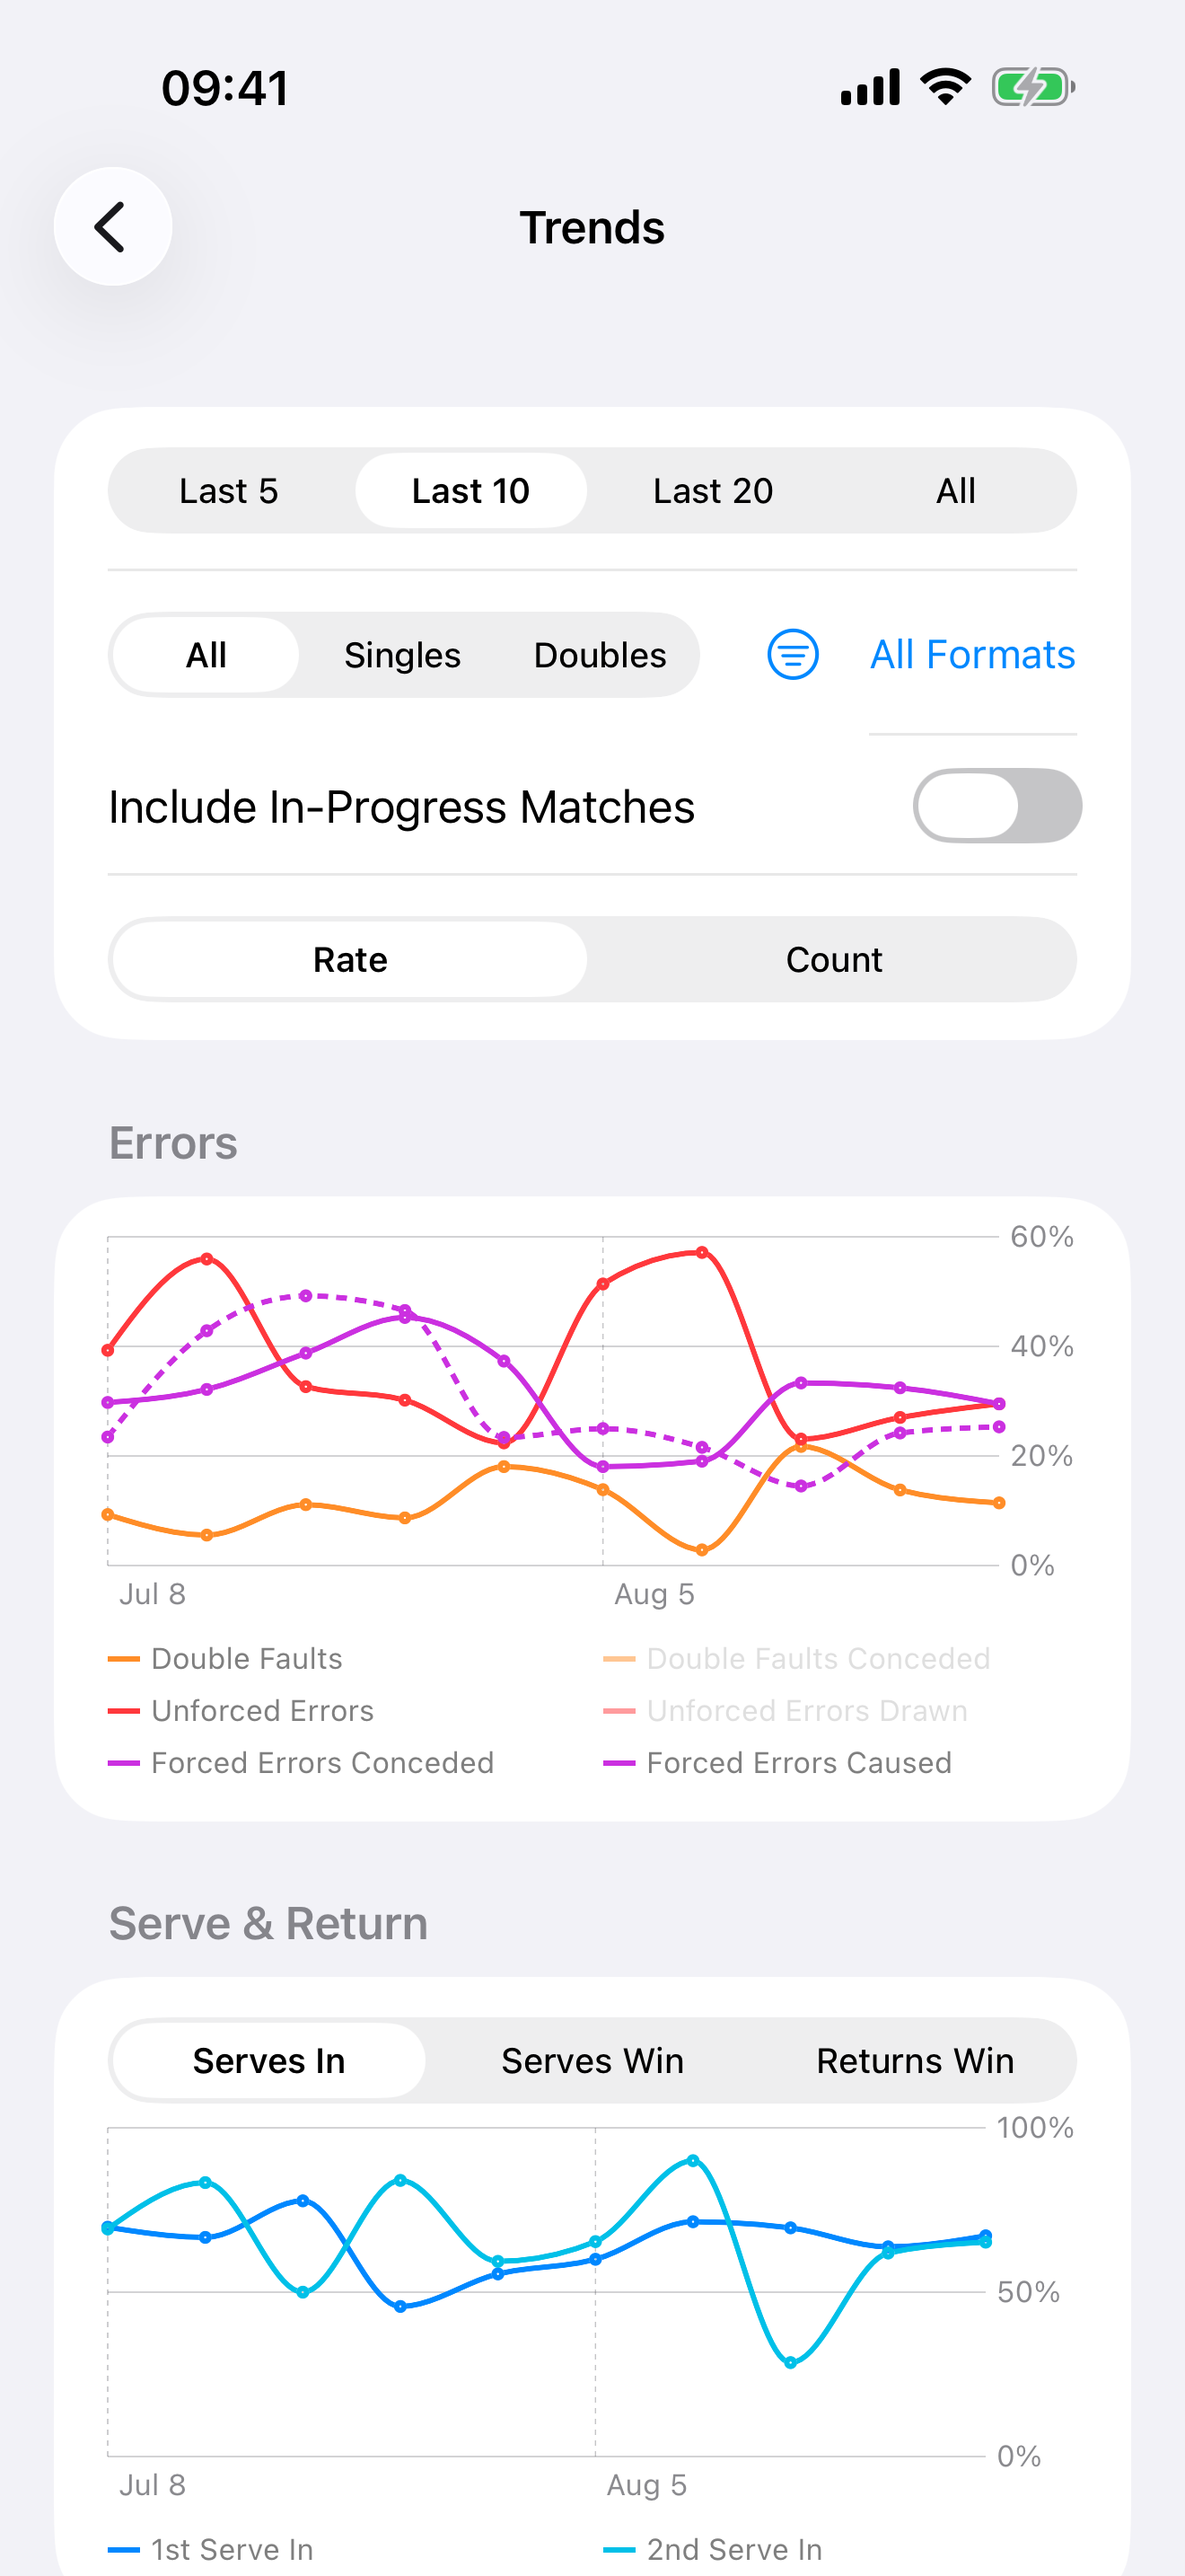
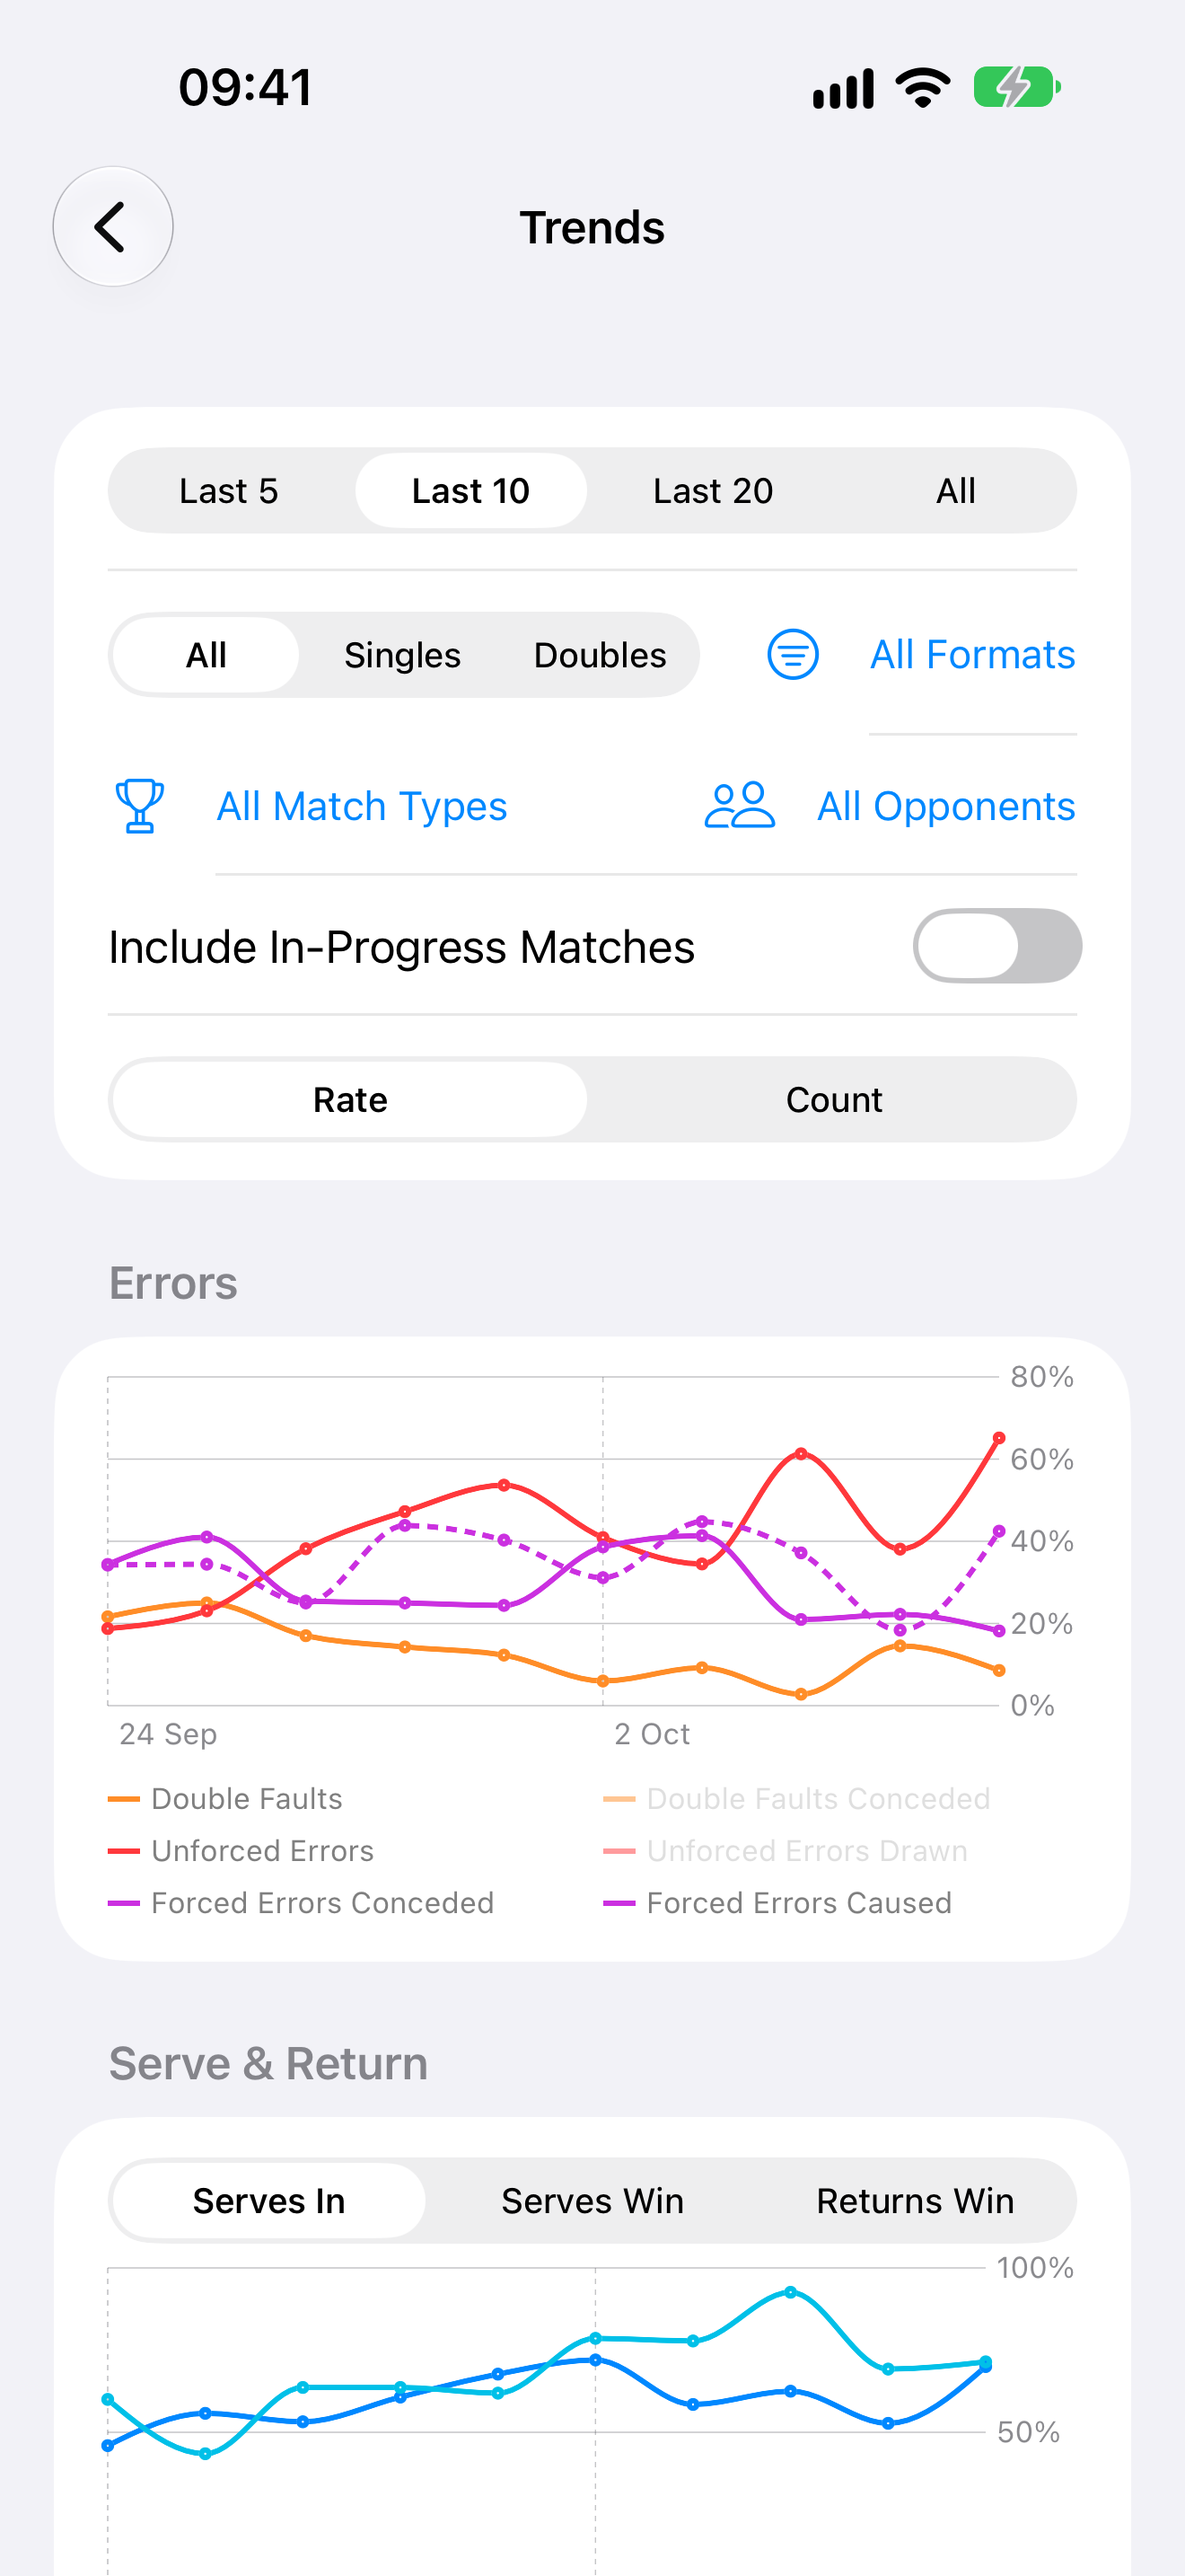
[Release] Recapture the Trends screenshot for 1.3.1
The old App Store image predates the competition and opponent filters, so it no
longer matches the screen. Add a repeatable capture test, and a checklist step
to upload the new image with the 1.3.1 submission.

diff --git a/DeuceMate/DeuceMateUITests/ScreenshotTests.swift b/DeuceMate/DeuceMateUITests/ScreenshotTests.swift
@@ -192,6 +192,25 @@ final class ScreenshotTests: XCTestCase {
         saveScreenshot("04-coaching-insights")
     }
 
+    /// The full Trends screen with its filters. Run on a freshly seeded
+    /// simulator so the persisted filters are at their defaults, from an archive
+    /// with tagged matches so the opponent filter appears.
+    @MainActor
+    func test_captureTrendsOverview() throws {
+        let app = XCUIApplication()
+        app.launch()
+        XCTAssertTrue(app.navigationBars["Matches"].waitForExistence(timeout: 20))
+        let trends = app.descendants(matching: .any)
+            .matching(NSPredicate(format: "label BEGINSWITH 'Trends,'"))
+            .firstMatch
+        XCTAssertTrue(trends.waitForExistence(timeout: 10))
+        trends.tap()
+        XCTAssertTrue(app.navigationBars["Trends"].waitForExistence(timeout: 10))
+        XCTAssertTrue(app.buttons["All Opponents"].waitForExistence(timeout: 10))
+        Thread.sleep(forTimeInterval: 1.5)
+        saveScreenshot("06-trends-overview")
+    }
+
     /// The AI Coach sheet the marketing frame composites. Run with the
     /// simulator in dark appearance (`simctl ui <udid> appearance dark`).
     @MainActor

diff --git a/docs/app-store-screenshots/README.md b/docs/app-store-screenshots/README.md
@@ -28,6 +28,12 @@ through. All ten are 1320 x 2868 with no alpha — a set must be one size.
 | 9 | `iphone-6.9/09-opponent-head-to-head.png` | raw — opponent profile and head-to-head |
 | 10 | `iphone-6.9/06-trends-overview.png` | raw — Trends filters and Errors |
 
+### What changed for 1.3.1
+
+- **Replace in App Store Connect:** slot 10, `iphone-6.9/06-trends-overview.png`,
+  which now shows the competition and opponent filters. The other nine stay as they
+  are.
+
 ### What changed for 1.3.0
 
 - **Replace in App Store Connect:** slots 1, 4, 7 and 8.
@@ -64,6 +70,8 @@ newest short-format matches (three Super Tiebreak and two Perpetual Points).
 Items 1, 4, 5, 8 and 9 were recaptured in November 2026 for 1.3.0 on the same
 simulator from a sanitized copy of the current archive; the overview, comparison
 and archive use the 2 November match and Coaching Insights the 15 October match.
+Item 6 was recaptured on 4 November 2026 for 1.3.1 on the iPhone 18 Pro Max
+simulator (same 1320 x 2868 size) from a sanitized copy of the 2 November archive.
 
 1. `01-match-overview.png` - completed score, result, points split, Match Info,
    and graph
@@ -73,7 +81,8 @@ and archive use the 2 November match and Coaching Insights the 15 October match.
 4. `04-coaching-insights.png` - match duration and ranked coaching
 5. `05-match-archive.png` - Trends summary, Opponents, and match history with
    player captions
-6. `06-trends-overview.png` - trend filters, Errors, and Serve & Return
+6. `06-trends-overview.png` - trend filters including competition and opponent,
+   Errors, and Serve & Return
 7. `07-trends-serve-return.png` - Serve & Return and Attack history (not uploaded
    since 1.3.0)
 8. `08-compare-previous-match.png` - this match next to the previous match against

diff --git a/docs/release/SUBMISSION_REVIEW.md b/docs/release/SUBMISSION_REVIEW.md
@@ -34,8 +34,10 @@ Before submission:
 - [ ] Open a player from Opponents and confirm Head to Head, Playing Style, Pending
   Matches and Past Matches appear in that order, and that Manage is available.
 - [ ] Re-run the unpaired-iPhone reviewer path in the review notes.
-- [ ] Decide whether `iphone-6.9/06-trends-overview.png` needs recapturing, because
-  it predates the new Trends filters.
+- [ ] Upload the recaptured `iphone-6.9/06-trends-overview.png` to the 1.3.1
+  submission in App Store Connect, replacing the old image in slot 10 of the iPhone
+  6.9-inch set. It shows the new Trends filters. See
+  [`docs/app-store-screenshots/README.md`](../app-store-screenshots/README.md).
 - [ ] Add the devices actually tested on this build to App Review Information →
   Notes.
 - [ ] Tag the uploaded commit `v1.3.1`.

diff --git a/docs/screenshots/README.md b/docs/screenshots/README.md
@@ -91,7 +91,9 @@ one and remove its notes, because these screens show names. Set
 `TEST_RUNNER_DEUCEMATE_TARGET_MATCH_ID` to a singles rematch for the first and to
 a match with several insights for the second, and pass the same
 `TEST_RUNNER_DEUCEMATE_CAPTURE_SCREENSHOTS` and
-`TEST_RUNNER_DEUCEMATE_SCREENSHOT_OUTPUT_DIR` values. Override
+`TEST_RUNNER_DEUCEMATE_SCREENSHOT_OUTPUT_DIR` values. `test_captureTrendsOverview`
+takes the same setup on a freshly seeded simulator, so the persisted filters are
+at their defaults. Override
 `status_bar` to 09:41 first (`xcrun simctl status_bar <udid> override --time 9:41`).
 `test_captureAICoachSheet` needs dark appearance and a physical device if the
 AI app rows must show, because the simulator has none installed. Rebuild the ads
